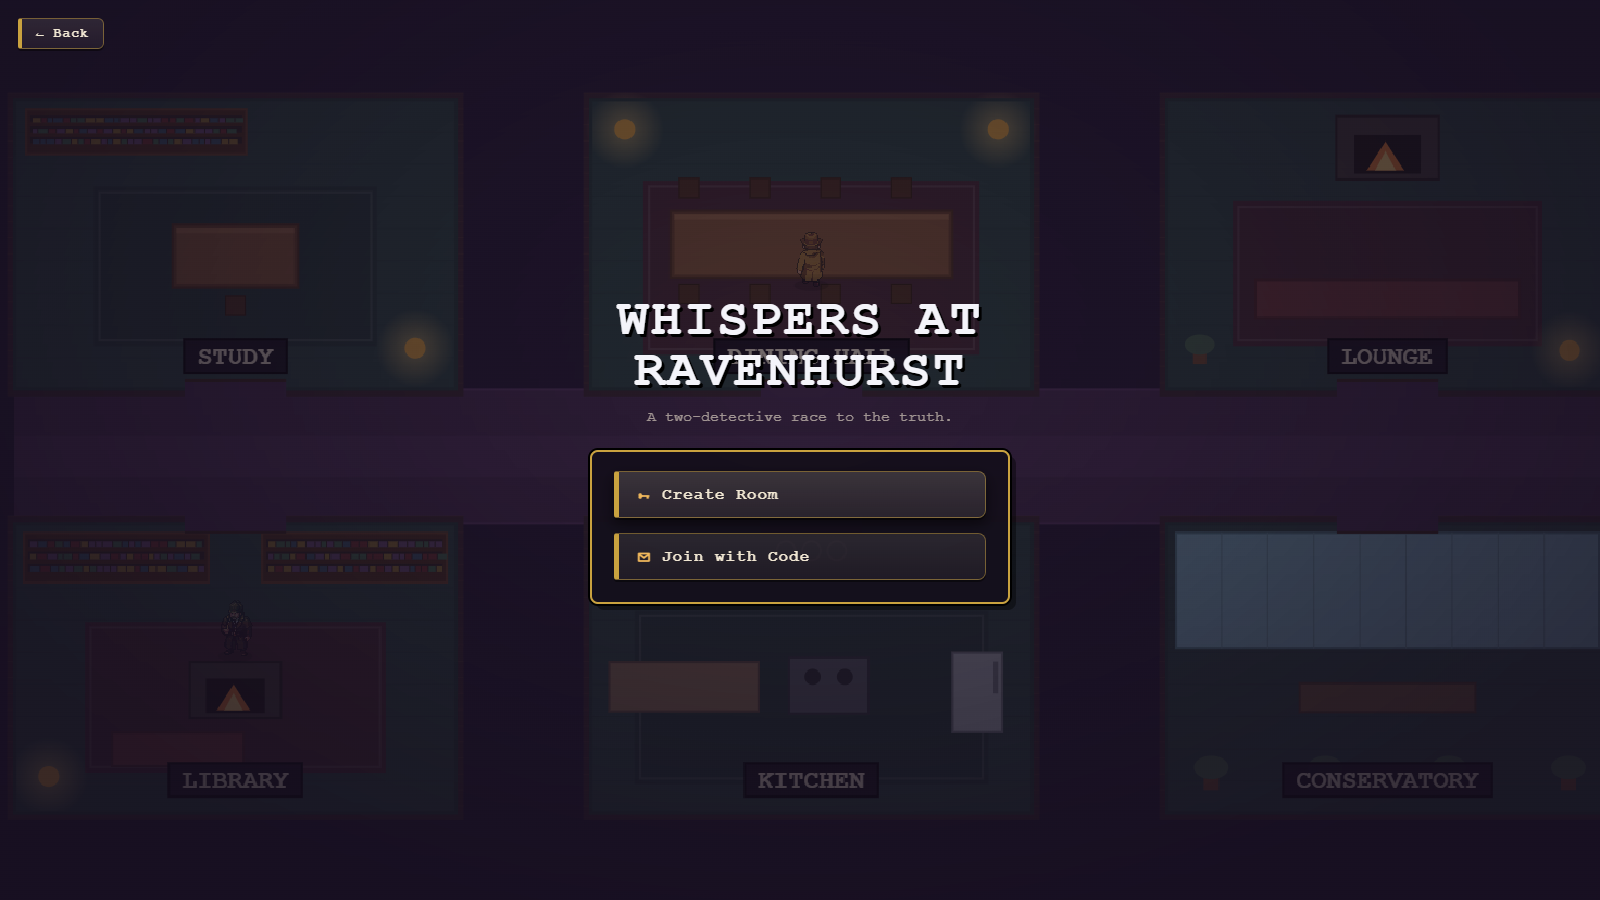
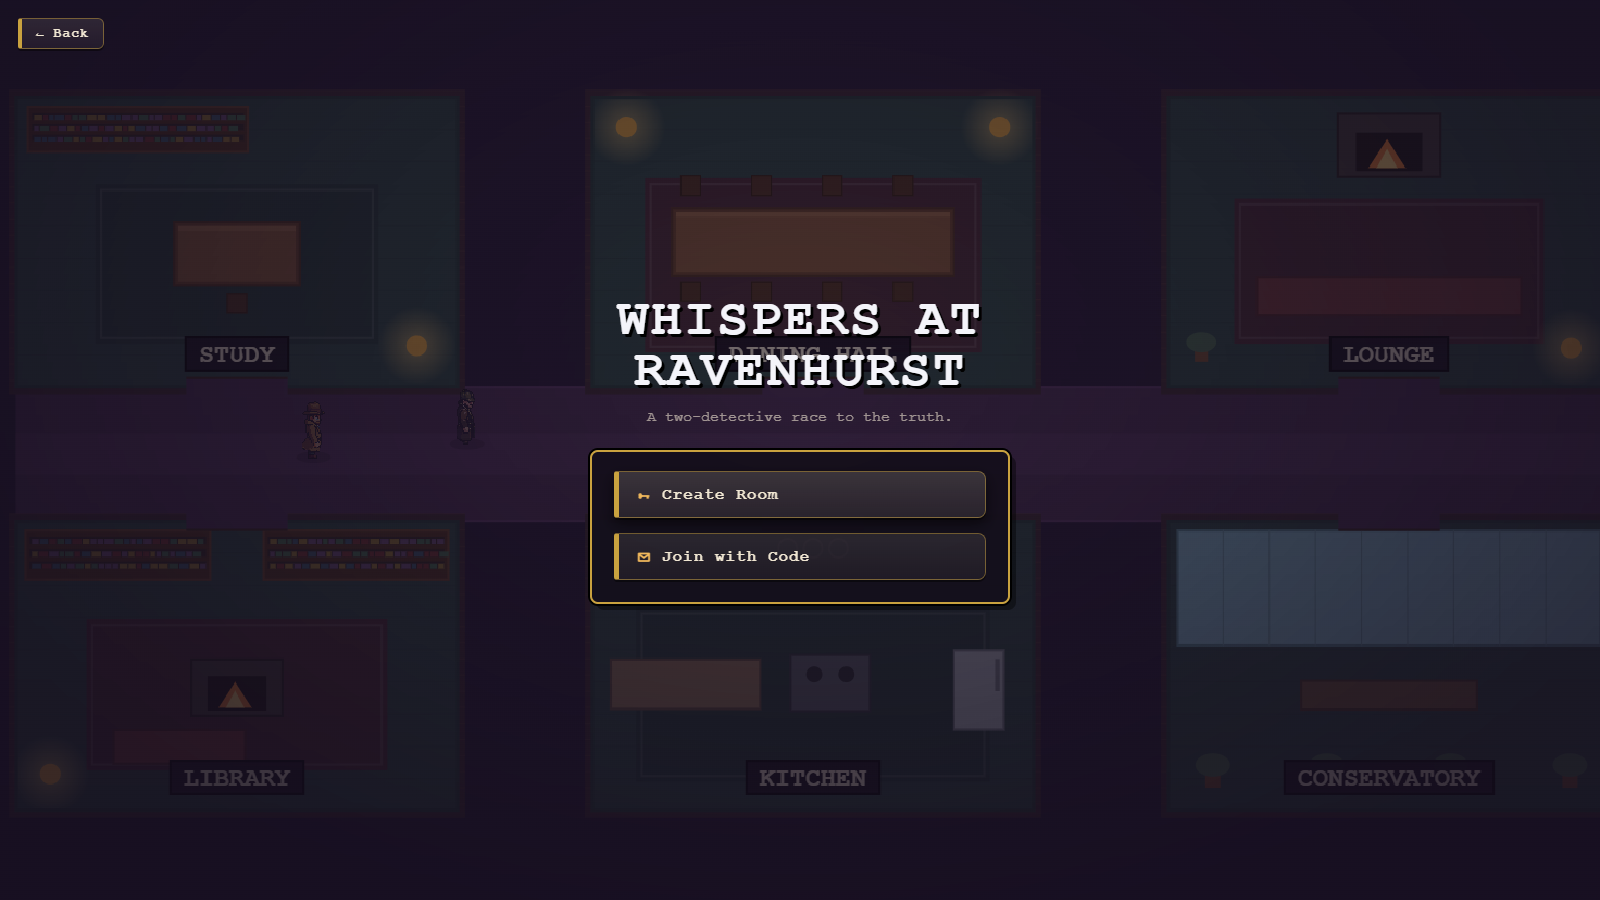
Phase 2.7 bug-fix: reliable click sound, persistent rain loop, creak phase-gating, ghost sprite separation, tagline/room-label overlap fix
Five playtest bugs on the menu/lobby continuity build:

1. Click sound inconsistent — fire() reused one <audio> element, which can't
   retrigger reliably mid-play (the 'sometimes silent' clicks). Now plays a
   short-lived CLONE per shot (cached file, referenced until 'ended', stopped
   by stopAll) so every press plays from the start, even in rapid succession.
2. Rain loop stopped after a while — added a loopIntent set + an ended→restart
   self-heal on loop elements and a defensive a.loop = true in startLoop, so
   the bed loops indefinitely until we explicitly halt it or mute.
3. Creaks misfiring on menu screens —
   a) the continuity fix had broadened the random-creak scheduler to
      (menu+lobby+game); regated to  only. Rain stays .
   b) the Begin Investigation button called playDoorCreak() directly; removed
      it — creaks are strictly the random in-game scheduler now. Begin uses the
      standard delegated UI click (dropped data-sound='off').
4. Ghost sprites overlapped — spawn in different rooms, exclude the other
   ghost's current/target room when picking a destination (targetRoom now
   published), and a per-frame separateGhosts() repulsion (GHOST_SEP 46px,
   walkable-clamped) so the two detectives never visually overlap.
5. Tagline overlapped the DINING HALL label — .mm-tagline gets a semi-opaque
   pill backdrop anchored to the text, covering whatever room label sits behind
   it at any viewport width (verified at 1600x900 and 1280x720).
[…]

diff --git a/client/src/game/menuScene.js b/client/src/game/menuScene.js
@@ -20,7 +20,7 @@
 import { drawBoard } from "./drawBoard.js";
 import { Character } from "./Character.js";
 import { loadSprites } from "./sprites.js";
-import { BOARD_W, BOARD_H, ROOM_IDS, roomRect, pathBetween, PALETTE } from "./boardData.js";
+import { BOARD_W, BOARD_H, ROOM_IDS, roomRect, pathBetween, isWalkable, PALETTE } from "./boardData.js";
 
 // Kill switch for the wandering detectives (leave the rest of the scene alive)
 // in case they misbehave or cost too much on low-end devices.
@@ -30,6 +30,7 @@ const DRIFT_SCALE = 1.06;      // overdraw so drift never exposes the board edge
 const DRIFT_X = 12, DRIFT_Y = 8;             // px amplitude (< overdraw margin ~40/26)
 const ARRIVE = 10;                           // waypoint arrival radius (> max 8px step)
 const GHOST_ALPHA = 0.55;
+const GHOST_SEP = 46;          // min feet-distance before the two ghosts repel apart
 const LIGHT_EVERY_MIN = 4000, LIGHT_EVERY_MAX = 6000, LIGHT_DUR = 2500;
 const LIGHTNING_MIN = 20000, LIGHTNING_MAX = 30000, LIGHTNING_DUR = 260;
 
@@ -39,18 +40,27 @@ const pick = (arr) => arr[(Math.random() * arr.length) | 0];
 // One autonomous wanderer: idle in a room → pick another room → walk the
 // pathBetween() waypoints → idle 2–4s → repeat. A 2s stuck guard drops the
 // route and goes idle if collision ever pins us (self-heals corner cases).
+// `targetRoom` is published so the OTHER ghost can steer clear (they never head
+// to the same room), and a per-frame repulsion pass keeps them from overlapping
+// when their paths cross in the corridor.
 class Ghost {
   constructor(ch, now) {
     this.ch = ch;
     this.waypoints = [];
+    this.targetRoom = null;
     this.idleUntil = now + rand(400, 2400);  // stagger the first departure
     this.lastX = ch.x; this.lastY = ch.y;
     this.stuckMs = 0;
   }
-  update(now, dt) {
+  update(now, dt, others) {
     const ch = this.ch;
     if (!this.waypoints.length && now >= this.idleUntil) {
-      const next = pick(ROOM_IDS.filter((r) => r !== ch.anchorRoom));
+      // Avoid the room the other ghost is in OR heading to, so they spread out.
+      const taken = new Set();
+      for (const o of others) { if (o === this) continue; taken.add(o.ch.anchorRoom); if (o.targetRoom) taken.add(o.targetRoom); }
+      const free = ROOM_IDS.filter((r) => r !== ch.anchorRoom && !taken.has(r));
+      const next = pick(free.length ? free : ROOM_IDS.filter((r) => r !== ch.anchorRoom));
+      this.targetRoom = next;
       this.waypoints = pathBetween(ch.anchorRoom, next);
     }
     if (this.waypoints.length) {
@@ -59,7 +69,7 @@ class Ghost {
       const d = Math.hypot(dx, dy);
       if (d < ARRIVE) {
         this.waypoints.shift();
-        if (!this.waypoints.length) { ch.setInput(0, 0); this.idleUntil = now + rand(2000, 4000); }
+        if (!this.waypoints.length) { ch.setInput(0, 0); this.targetRoom = null; this.idleUntil = now + rand(2000, 4000); }
       } else {
         ch.setInput(dx / d, dy / d);
       }
@@ -71,13 +81,38 @@ class Ghost {
     if (this.waypoints.length && Math.hypot(ch.x - this.lastX, ch.y - this.lastY) < 0.5) {
       this.stuckMs += dt;
       if (this.stuckMs > 2000) {
-        this.waypoints = []; ch.setInput(0, 0);
+        this.waypoints = []; ch.setInput(0, 0); this.targetRoom = null;
         this.idleUntil = now + rand(2000, 4000); this.stuckMs = 0;
       }
     } else {
       this.stuckMs = 0;
     }
     this.lastX = ch.x; this.lastY = ch.y;
+  }
+}
+
+// Nudge a ghost by (dx,dy) but only into walkable space (slide on one axis if a
+// wall blocks the diagonal) — the same collision rule the character movement uses.
+function nudge(ch, dx, dy) {
+  if (isWalkable(ch.x + dx, ch.y + dy, ROOM_IDS)) { ch.x += dx; ch.y += dy; }
+  else if (isWalkable(ch.x + dx, ch.y, ROOM_IDS)) { ch.x += dx; }
+  else if (isWalkable(ch.x, ch.y + dy, ROOM_IDS)) { ch.y += dy; }
+}
+// Repulsion pass: push any two ghosts closer than GHOST_SEP apart so they never
+// visually overlap (room-exclusion handles the common case; this covers paths
+// crossing in the corridor).
+function separateGhosts(ghosts) {
+  for (let i = 0; i < ghosts.length; i++) {
+    for (let j = i + 1; j < ghosts.length; j++) {
+      const a = ghosts[i].ch, b = ghosts[j].ch;
+      let dx = b.x - a.x, dy = b.y - a.y;
+      let d = Math.hypot(dx, dy);
+      if (d >= GHOST_SEP) continue;
+      if (d < 0.01) { dx = 1; dy = 0; d = 1; }   // exactly coincident → arbitrary axis
+      const push = (GHOST_SEP - d) / 2, ux = dx / d, uy = dy / d;
+      nudge(a, -ux * push, -uy * push);
+      nudge(b, ux * push, uy * push);
+    }
   }
 }
 
@@ -109,7 +144,8 @@ export function startMenuScene(canvas, { reducedMotion = false } = {}) {
   const ghosts = [];
   if (MENU_GHOSTS_ENABLED) {
     const now = performance.now();
-    const starts = [pick(ROOM_IDS), pick(ROOM_IDS)];
+    const startA = pick(ROOM_IDS);
+    const starts = [startA, pick(ROOM_IDS.filter((r) => r !== startA))];  // never spawn in the same room
     Promise.all([loadSprites("holmes"), loadSprites("watson")])
       .then(([h, w]) => {
         if (!alive) return;
@@ -147,8 +183,10 @@ export function startMenuScene(canvas, { reducedMotion = false } = {}) {
     }
 
     // Ghost detectives (translucent, fully in-board thanks to real collision).
+    // Update all, then push any overlapping pair apart, then draw.
+    for (const g of ghosts) g.update(t, dt, ghosts);
+    separateGhosts(ghosts);
     for (const g of ghosts) {
-      g.update(t, dt);
       ctx.globalAlpha = GHOST_ALPHA;
       g.ch.draw(ctx);
       ctx.globalAlpha = 1;

diff --git a/client/src/game/sound.js b/client/src/game/sound.js
@@ -47,6 +47,8 @@ let muted = false;
 let unlocked = false;
 let footState = "idle";       // "idle" | "walk" | "sprint"
 const plays = {};             // per-sound play count (observability; drives the dev handle)
+const loopIntent = new Set(); // loop keys we intend to keep alive (drives self-heal)
+const oneShots = new Set();   // live one-shot clones, referenced until they finish
 
 // Preload one <audio> element per sound on import (i.e. at app start). Guarded so
 // non-browser environments (node tests/SSR) don't throw on `new Audio`.
@@ -56,6 +58,15 @@ const bank = (typeof Audio !== "undefined")
       a.preload = "auto";
       a.loop = s.loop;
       a.volume = s.volume;
+      // Self-heal loops: if a loop element ever fires `ended` (loop somehow
+      // dropped, a decode hiccup, a boundary glitch on the long rain file…),
+      // restart it as long as we still intend it to play. Guarantees the rain
+      // bed never dies during menu/lobby/game until we explicitly halt it.
+      if (s.loop) a.addEventListener("ended", () => {
+        if (loopIntent.has(key) && !muted && unlocked) {
+          try { a.currentTime = 0; a.play()?.catch(() => {}); } catch { /* ignore */ }
+        }
+      });
       return [key, a];
     }))
   : null;
@@ -70,28 +81,49 @@ export function setMuted(v) {
 export function isMuted() { return muted; }
 
 // ---- low-level helpers ----------------------------------------------------
-// One-shot: rewind to 0 then play (a single element can't stack on itself).
+// One-shot: play a fresh CLONE so rapid/overlapping presses each play cleanly
+// from the start. A single <audio> element can't retrigger reliably mid-play —
+// that's the "sometimes silent" click. Clones are cheap (the file is already
+// cached), are kept referenced so they can't be GC'd mid-play, and self-remove
+// when they finish.
 function fire(key) {
-  const a = el(key);
-  if (!a || muted || !unlocked) return;
-  try { a.currentTime = 0; a.play()?.catch(() => {}); plays[key] = (plays[key] || 0) + 1; } catch { /* ignore */ }
+  const base = el(key);
+  if (!base || muted || !unlocked) return;
+  try {
+    const node = base.cloneNode(true);
+    node.loop = false;
+    node.volume = base.volume;
+    oneShots.add(node);
+    const done = () => oneShots.delete(node);
+    node.addEventListener("ended", done, { once: true });
+    node.addEventListener("error", done, { once: true });
+    node.play()?.catch(done);
+    plays[key] = (plays[key] || 0) + 1;
+  } catch { /* ignore */ }
 }
 // Loop: start only if not already running, so repeated calls don't restart it.
+// Records loop intent + re-asserts `loop=true` so the bed genuinely loops forever.
 function startLoop(key) {
   const a = el(key);
   if (!a || muted || !unlocked) return;
+  loopIntent.add(key);
+  a.loop = true;
   if (!a.paused) return;
   try { a.currentTime = 0; a.play()?.catch(() => {}); plays[key] = (plays[key] || 0) + 1; } catch { /* ignore */ }
 }
-// Stop + rewind. Safe to call when already stopped (no-op).
+// Stop + rewind. Safe to call when already stopped (no-op). Clears loop intent
+// so the self-heal handler won't resurrect a deliberately-stopped loop.
 function halt(key) {
   const a = el(key);
   if (!a) return;
+  loopIntent.delete(key);
   try { a.pause(); a.currentTime = 0; } catch { /* ignore */ }
 }
 function stopAll() {
   if (!bank) return;
   for (const key of Object.keys(bank)) halt(key);
+  for (const node of oneShots) { try { node.pause(); } catch { /* ignore */ } }
+  oneShots.clear();
   footState = "idle";
 }
 

diff --git a/client/src/components/MainMenu.jsx b/client/src/components/MainMenu.jsx
@@ -1,5 +1,5 @@
 import { useState, useEffect, useRef } from "react";
-import { playDoorCreak, playNotebookOpen } from "../game/sound.js";
+import { playNotebookOpen } from "../game/sound.js";
 import DeskPanel from "./DeskPanel.jsx";
 import CaseFilesPanel from "./CaseFilesPanel.jsx";
 
@@ -7,9 +7,10 @@ import CaseFilesPanel from "./CaseFilesPanel.jsx";
 // typewriter title, a random tagline, and three case-file-style entries.
 // The idle-mansion backdrop is NOT rendered here — App mounts a shared
 // <MenuBackdrop/> that stays alive across menu ⇄ lobby, so "Begin
-// Investigation" only creaks the door and fades the CONTENT out (~300ms)
-// before handing off to the EXISTING lobby via onBegin — same scene, new
-// foreground. Rain + random creaks are owned by App (its `ambient` effects).
+// Investigation" just fades the CONTENT out (~300ms) before handing off to the
+// EXISTING lobby via onBegin — same scene, new foreground. The buttons use the
+// standard UI click (creaks are ambient-only, reserved for the random in-game
+// scheduler). Rain + creaks are owned by App (its `ambient` / `inGame` effects).
 
 export const TAGLINES = [
   "Only one detective uncovers the truth.",
@@ -55,9 +56,9 @@ export default function MainMenu({ onBegin, soundOn, onToggleSound }) {
   const begin = () => {
     if (leaving) return;               // double-click guard
     setLeaving(true);
-    playDoorCreak();                   // the manor door groans open…
-    // Content-only fade (the shared backdrop keeps running underneath —
-    // NO cut to black; the lobby panel takes over the same scene).
+    // Content-only fade (the shared backdrop keeps running underneath — NO cut
+    // to black; the lobby panel takes over the same scene). The button's own
+    // click sound comes from App's delegated listener (no data-sound="off").
     leaveTimer.current = setTimeout(onBegin, reducedMotion() ? 0 : 300);
   };
 
@@ -75,8 +76,7 @@ export default function MainMenu({ onBegin, soundOn, onToggleSound }) {
         <p className="mm-tagline">{tagline}</p>
 
         <div className="mm-actions">
-          {/* data-sound="off": Begin plays the door creak, not the generic click */}
-          <button className="mm-btn" data-sound="off" onMouseEnter={() => playNotebookOpen()} onClick={begin}>
+          <button className="mm-btn" onMouseEnter={() => playNotebookOpen()} onClick={begin}>
             <span className="mm-btn-icon">▶</span> Begin Investigation
           </button>
           <button className="mm-btn" onMouseEnter={() => playNotebookOpen()} onClick={() => setPanel("desk")}>

diff --git a/client/src/App.jsx b/client/src/App.jsx
@@ -163,12 +163,14 @@ export default function App() {
   }, [ambient, soundOn, audioUnlocked]);
 
   // Random atmospheric creaks: every 30–90s (re-randomised each time) play EITHER
-  // a door OR a floor creak, on the menu and while gameplay is on screen. A
+  // a door OR a floor creak — ONLY during real gameplay (the investigation phase),
+  // never on the menu/lobby/panels. (Rain is `ambient`; creaks are strictly
+  // `inGame` — the shared pre-game backdrop must stay silent of creaks.) A
   // self-rescheduling timeout (not a fixed interval) gives the varied cadence;
   // fire() no-ops while muted, so nothing creaks when the sound is off. Cleanup
   // clears the pending timeout, so menu→lobby→game can never stack schedulers.
   useEffect(() => {
-    if (!ambient) return;
+    if (!inGame) return;
     let id;
     const schedule = () => {
       const delay = 30_000 + Math.random() * 60_000;   // 30–90s

diff --git a/client/src/index.css b/client/src/index.css
@@ -719,9 +719,14 @@ body {
   animation: mm-caret 0.8s steps(2, start) infinite;
 }
 @keyframes mm-caret { 50% { opacity: 0; } }
+/* Semi-opaque pill anchored to the text itself: it always covers exactly
+   whatever room label sits behind the tagline, at any viewport width (so the
+   overlap can't just reappear over a different label at another size). */
 .mm-tagline {
   margin: 0; font-style: italic; font-size: 15px;
-  color: rgba(240,230,210,0.78); text-shadow: 1px 1px 0 #000;
+  color: rgba(240,230,210,0.92); text-shadow: 1px 1px 0 #000;
+  display: inline-block; padding: 5px 16px; border-radius: 999px;
+  background: rgba(21,14,30,0.74); border: 1px solid rgba(201,162,63,0.3);
 }
 
 /* Case-file tab buttons */

diff --git a/ROADMAP.md b/ROADMAP.md
@@ -171,6 +171,15 @@ with the same style unifying the Desk/Case Files footers. `menu-test.mjs` → **
 checks** (continuity marker across round-trips, rain-through-lobby, back navigation,
 backdrop-unmounts-in-game, fresh-scene-after-reveal).
 
+**Bug-fix pass (5 playtest bugs):** (1) reliable click sound — `fire()` plays a
+clone-per-shot so rapid presses never go silent; (2) persistent rain — `loopIntent` +
+`ended`→restart self-heal + defensive `loop=true`; (3) creaks regated to `inGame` only
+(the continuity fix had broadened them to `ambient`) and the Begin button's door-creak
+removed (creaks are strictly the random in-game scheduler now); (4) ghost separation
+(different-room spawns + target-room exclusion + a 46px repulsion pass) so the two
+detectives never overlap; (5) tagline overlap fixed with a text-anchored pill backdrop.
+`menu-test.mjs` → **47 checks**; 2.4a/2.4b audio suites still green.
+
 ---
 
 ## Phase 3 — Content Expansion · **FUTURE** 🔜
